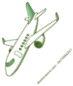
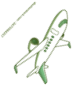
Fix airplane: faces UP, moves UP, 75% slower (64s loop)
- Flipped airplane.png horizontally+vertically so it faces upward
- Animation slowed from 16s to 64s (75% speed reduction)
- Plane now visually ascends from bottom to top correctly

Changed region(s): [[0.0, 0.0233, 0.9863, 0.9767]]

diff --git a/apps/frontend/src/pages/LandingPage.tsx b/apps/frontend/src/pages/LandingPage.tsx
@@ -301,7 +301,7 @@ export default function LandingPage() {
         <div className="absolute top-0 bottom-0" style={{ left: '-18px', width: '36px', background: `linear-gradient(to bottom, transparent 3%, rgba(255,255,255,0.015) 10%, rgba(255,255,255,0.008) 50%, rgba(255,255,255,0.015) 90%, transparent 97%)`, filter: 'blur(10px)' }} />
 
         {/* ── AIRPLANE flying UP with contrail ── */}
-        <div className="absolute" style={{ left: '-26px', animation: 'fp-rocket 16s ease-in-out infinite' }}>
+        <div className="absolute" style={{ left: '-26px', animation: 'fp-rocket 64s ease-in-out infinite' }}>
           {/* Contrail below the ascending plane */}
           <div style={{ position: 'absolute', top: '100%', left: '50%', transform: 'translateX(-50%)', width: '3px', height: '100px', borderRadius: '2px', background: 'linear-gradient(to bottom, rgba(255,255,255,0.5), rgba(118,185,0,0.2), transparent)' }} />
           {/* Real airplane image — flying up */}
